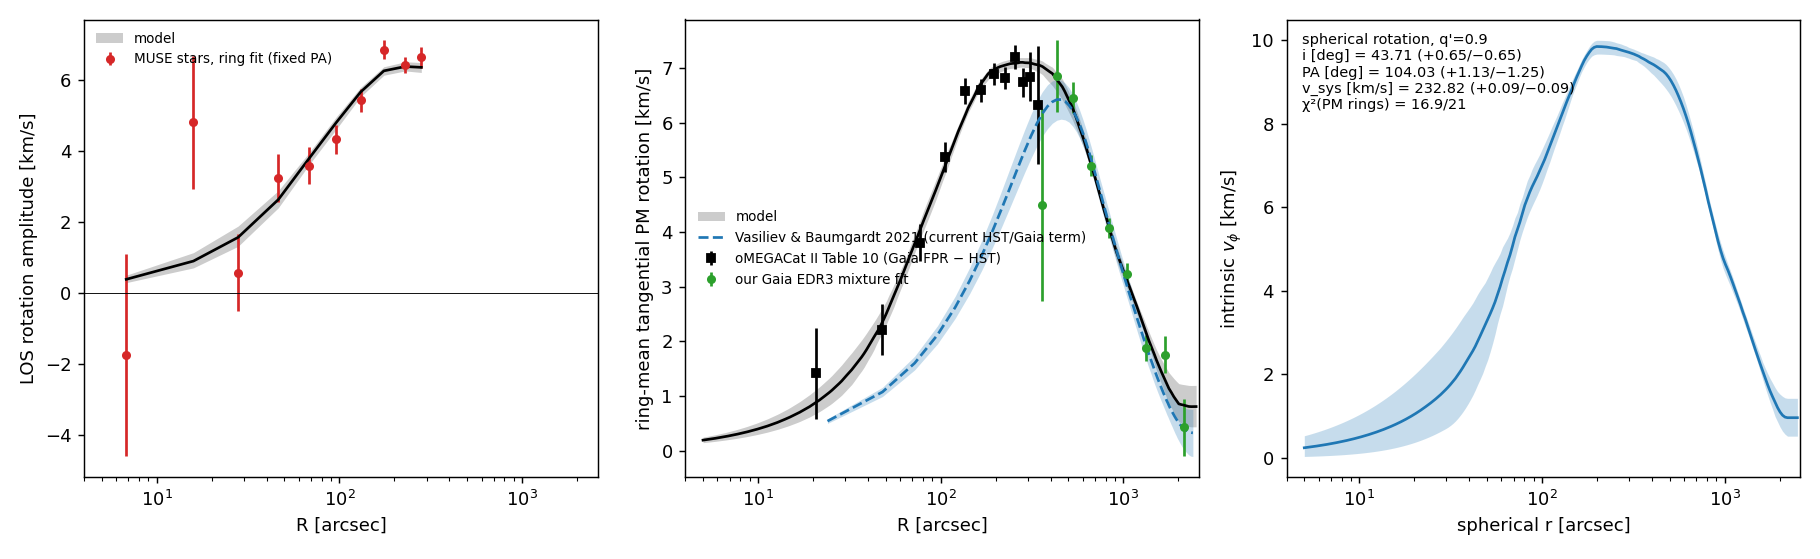
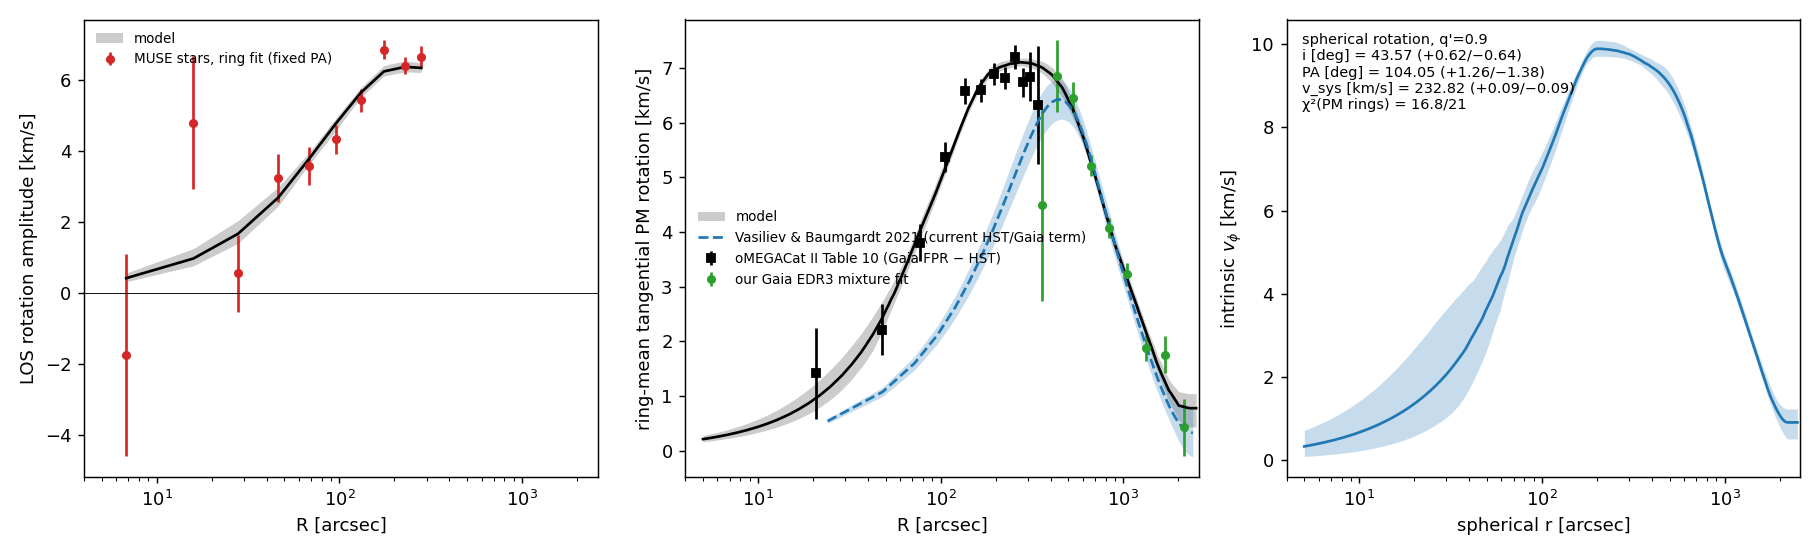
Fix rotation-field tracer flattening (sigma_major = sigma/sqrt(q')) and refit; tuner HST-T errors use the new rotation field's uncertainty instead of the old VB21 inflation

diff --git a/bin/tune_jam_to_data.py b/bin/tune_jam_to_data.py
@@ -67,19 +67,44 @@ class Setup:
             self.pts[p.name] = (xp, yp, b, nd)
         self.data = self._corrected_data()
 
-    def _corrected_data(self):
-        """Real data with the corrected rotation terms (HST R and T from the measured rotation field)."""
+    def _ring_terms(self, p, mf):
+        """Per-bin ring mean of the field's PM component and its mean square [mas/yr, (mas/yr)^2]."""
+        xp, yp, b, _ = self.pts[p.name]
+        v = mf(xp, yp)
+        R = np.hypot(xp, yp)
+        e = (np.array([xp/R, yp/R]) if p.kind == "pmr" else np.array([-yp/R, xp/R]))
+        m1 = (e[0]*v[0]+e[1]*v[1])/(4.74047*D_MEAS)
+        return (np.array([np.mean(m1[b == k]) for k in range(p.n)]),
+                np.array([np.mean(m1[b == k]**2) for k in range(p.n)]))
+
+    def _corrected_data(self, ndraw=40):
+        """Real data with the corrected rotation terms (HST R and T from the measured rotation field).
+
+        Errors (fixed 2026-11-13): the snapshot's HST-T errors include the uncertainty of the OLD (VB21) rotation curve
+        (likelihood._hst_ours, streaming_error_on_sigma). They are replaced by the measurement error (hst_profile
+        product) combined in quadrature with the same first-order term for the NEW field, |vbar| dv / sigma, dv = s.d.
+        of the ring-mean PM over `ndraw` draws of the rotation-field chain (same convention as production: independent
+        between bins). HST-R had no rotation error term and gets none (its ring-mean component is ~0).
+        """
+        from ocen_dm.kinematics.hst_profile import load_hst_product
+        from ocen_dm.kinematics.likelihood import streaming_error_on_sigma
         mf = J.MeanField(1.0)
+        chain = np.load(ROOT/"results/rotation/rotation_field_cylindrical_chain_20261113.npy")
+        draws = chain[np.random.default_rng(7).choice(len(chain), ndraw, replace=False)]
+        mfs = [J.MeanField(1.0, params=d) for d in draws]
+        prod = load_hst_product()
         out = []
         for p in self.pb0.data.profiles:
             if p.instrument == "HST":
-                xp, yp, b, _ = self.pts[p.name]
-                v = mf(xp, yp)
-                R = np.hypot(xp, yp)
-                e = (np.array([xp/R, yp/R]) if p.kind == "pmr" else np.array([-yp/R, xp/R]))
-                m1 = (e[0]*v[0]+e[1]*v[1])/(4.74047*D_MEAS)
-                st2 = np.array([np.mean(m1[b == k]**2) for k in range(p.n)])
-                out.append(replace(p, streaming2=st2))
+                vbar, st2 = self._ring_terms(p, mf)
+                if p.kind == "pmt":
+                    assert np.allclose(np.asarray(prod["r_median"], float), p.r)
+                    e_meas = np.asarray(prod["sigma_pmt_err"], float)
+                    dv = np.std([self._ring_terms(p, m)[0] for m in mfs], axis=0)
+                    err = np.hypot(e_meas, streaming_error_on_sigma(p.value, vbar, dv))
+                    out.append(replace(p, streaming2=st2, err_lo=err, err_hi=err))
+                else:
+                    out.append(replace(p, streaming2=st2))
             else:
                 out.append(p)
         return KinematicData(tuple(out))

diff --git a/bin/jam_mock_rotation_test.py b/bin/jam_mock_rotation_test.py
@@ -129,10 +129,11 @@ def surface_density(lum, xp, yp):
 
 class MeanField:
     """Projected mean velocity (v_x', v_y', v_z) [km/s] from the fitted rotation field, in the (x', y') frame."""
-    def __init__(self, scale=1.0):
+    def __init__(self, scale=1.0, params=None):
+        """params: a rotation-field parameter vector (nodes, incl, pa, vsys); default the fit's MAP."""
         import fit_rotation_field as F
         rot = json.loads((ROOT/"results/rotation/rotation_field_cylindrical_20261113.json").read_text())
-        p = np.array(rot["map"]); nn = len(F.NODES)
+        p = np.array(rot["map"] if params is None else params); nn = len(F.NODES)
         mlos, vt, vr = F.Field("cylindrical").project(scale*p[:nn], p[-3])
         self.F = F
         g = lambda a: np.c_[a, a[:, :1]]

diff --git a/bin/fit_rotation_field.py b/bin/fit_rotation_field.py
@@ -61,7 +61,10 @@ class Field:
     def __init__(self, law="cylindrical"):
         mge = json.loads((processed_dir()/"kinematics"/"tracer_mge_counts_c.json").read_text())
         keep = np.asarray(mge["fractions"]) > 1e-6
-        self.sig = np.asarray(mge["sigmas_arcsec"])[keep]
+        # circular sigmas -> major-axis sigmas of the flattened projection: sigma_major = sigma/sqrt(q'), which keeps each
+        # Gaussian's total and its circularised profile (same convention as jam_mock_rotation_test.flatten; fixed
+        # 2026-11-13 -- the first version used the circular sigma as the major-axis sigma)
+        self.sig = np.asarray(mge["sigmas_arcsec"])[keep]/np.sqrt(QPROJ)
         self.frac = np.asarray(mge["fractions"])[keep]
         self.law = law
 
